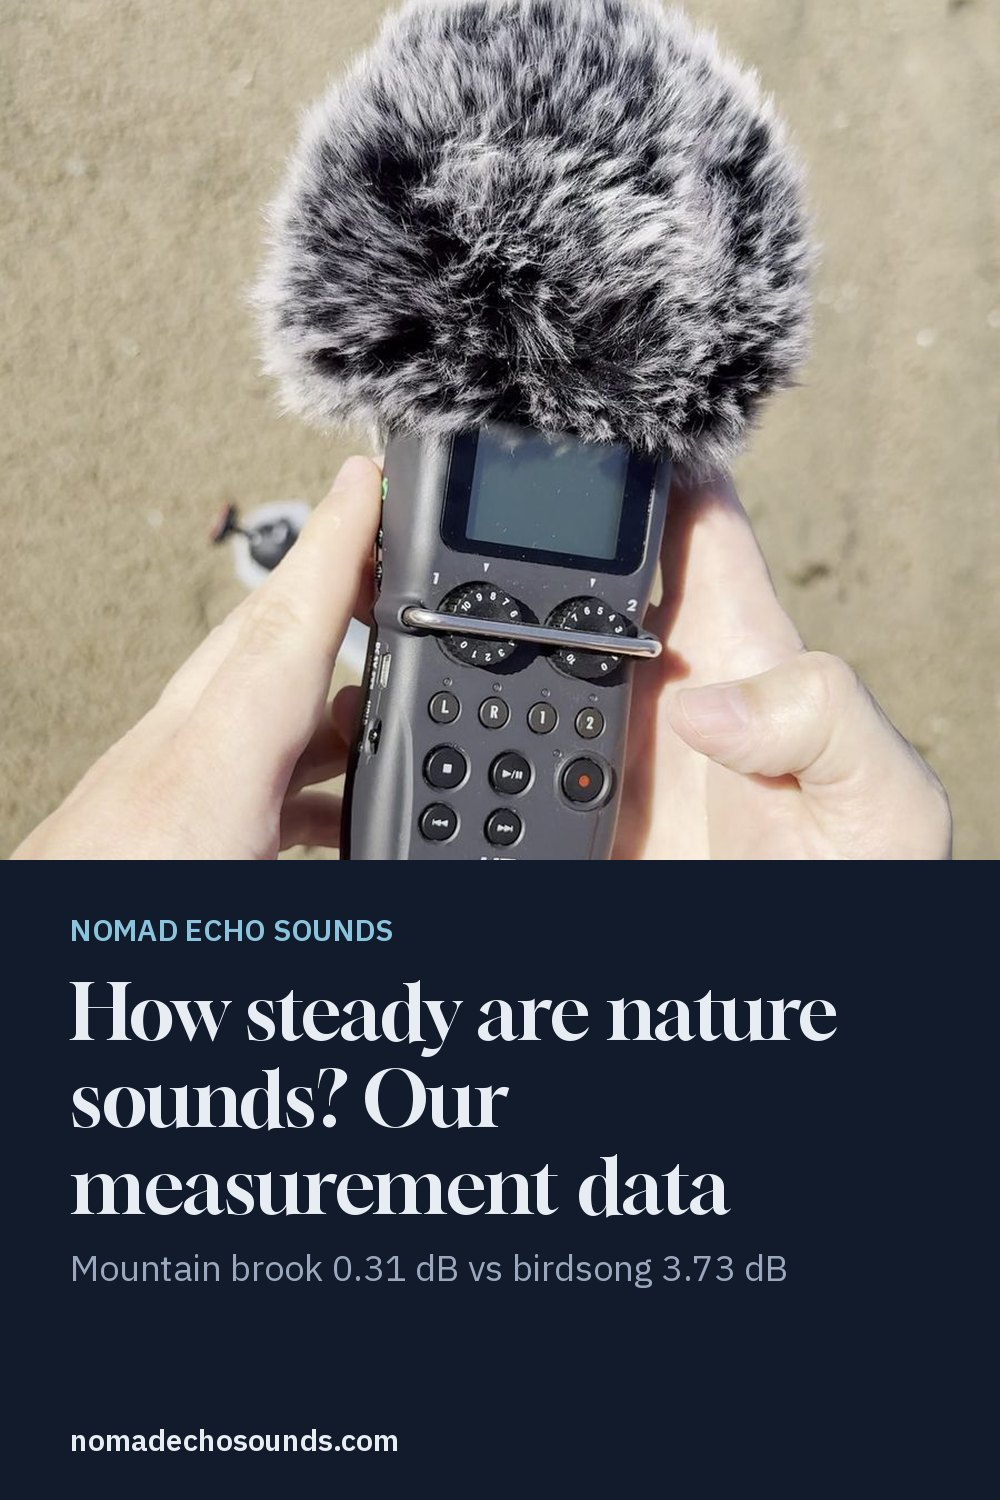
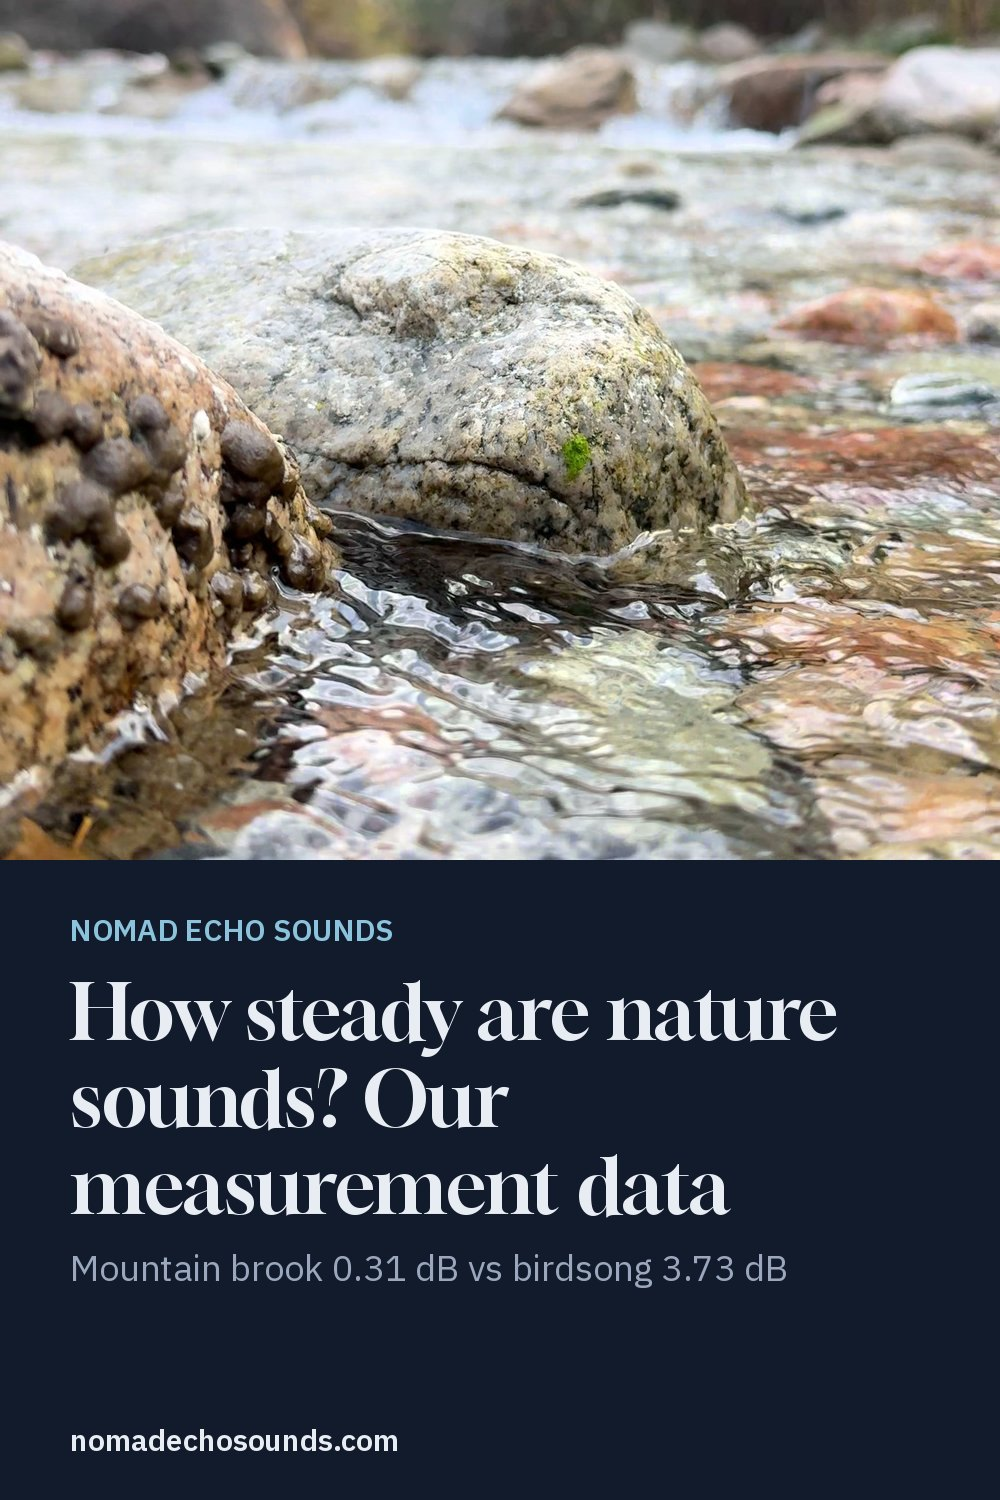
New Pinterest pins with Big Almaty gorge river frames
- Five frames from Andrey's shorts (Big Almaty gorge, 1,466 m), saved without EXIF/GPS
- Pins for five articles now use them; versioned guids so Pinterest publishes the fresh pins

Claude-Session: https://claude.ai/code/session_017wVdazK8FSXuBGUAf4ZH77

diff --git a/scripts/build_feed.py b/scripts/build_feed.py
@@ -17,12 +17,19 @@ FONTS = ROOT / "scripts" / "fonts"
 # Optional per-page pin settings: a different photo than the page's share image
 # (so pins don't all look alike) and a short line with the key number.
 PINS = {
-    "/nature-sound-measurements/": ("andrey-zoom-h5-hands", "Mountain brook 0.31 dB vs birdsong 3.73 dB"),
-    "/tinnitus-masking-sounds/": ("zoom-h5-recording-setup", "We measured real mountain water"),
+    "/nature-sound-measurements/": ("big-almaty-stone-moss", "Mountain brook 0.31 dB vs birdsong 3.73 dB"),
+    "/tinnitus-masking-sounds/": ("big-almaty-stream-foam", "We measured real mountain water"),
     "/birdsong-for-sleep/": ("ile-alatau-spruce-slope", "42 loud events every minute"),
-    "/recordings/mountain-brook/": ("ile-alatau-mountain-stream", "0.31 dB loudness variation"),
-    "/recordings/mountain-river/": ("ile-alatau-valley-stream", "Loud but constant: 0.62 dB"),
-    "/tian-shan-field-recordings/": ("ile-alatau-valley-stream", "Ile Alatau, Kazakhstan"),
+    "/recordings/mountain-brook/": ("big-almaty-clear-pebbles", "0.31 dB loudness variation"),
+    "/recordings/mountain-river/": ("big-almaty-cascade", "Loud but constant: 0.62 dB"),
+    "/tian-shan-field-recordings/": ("big-almaty-gorge-autumn-stream", "Big Almaty gorge, 1,466 m"),
+}
+# Bump when a page's pin image changes: Pinterest only publishes items with a
+# new <guid>, so a new version makes it post the fresh pin (old pin stays).
+PIN_VERSION = {
+    "/nature-sound-measurements/": 2, "/tinnitus-masking-sounds/": 2,
+    "/recordings/mountain-brook/": 2, "/recordings/mountain-river/": 2,
+    "/tian-shan-field-recordings/": 2,
 }
 DEFAULT_SUB = "Real field recordings from the Tian Shan"
 
@@ -95,6 +102,7 @@ def page_info(url):
         image = f"{SITE}/assets/img/{photo}.jpg"
     return {
         "title": title, "desc": html.unescape(desc), "link": url,
+        "guid": url + (f"#pin{PIN_VERSION[path]}" if path in PIN_VERSION else ""),
         "image": image, "length": pin.stat().st_size,
         "date": datetime.datetime.fromisoformat(date.group(1) + "T09:00:00+05:00"),
     }
@@ -119,7 +127,7 @@ def main():
         out += ["<item>",
                 f"<title>{esc(i['title'])}</title>",
                 f"<link>{i['link']}</link>",
-                f'<guid isPermaLink="true">{i["link"]}</guid>',
+                f'<guid isPermaLink="false">{i["guid"]}</guid>',
                 f"<pubDate>{email.utils.format_datetime(i['date'])}</pubDate>",
                 f"<description>{esc(i['desc'])}</description>",
                 f'<enclosure url="{i["image"]}" length="{i["length"]}" type="image/jpeg"/>',
